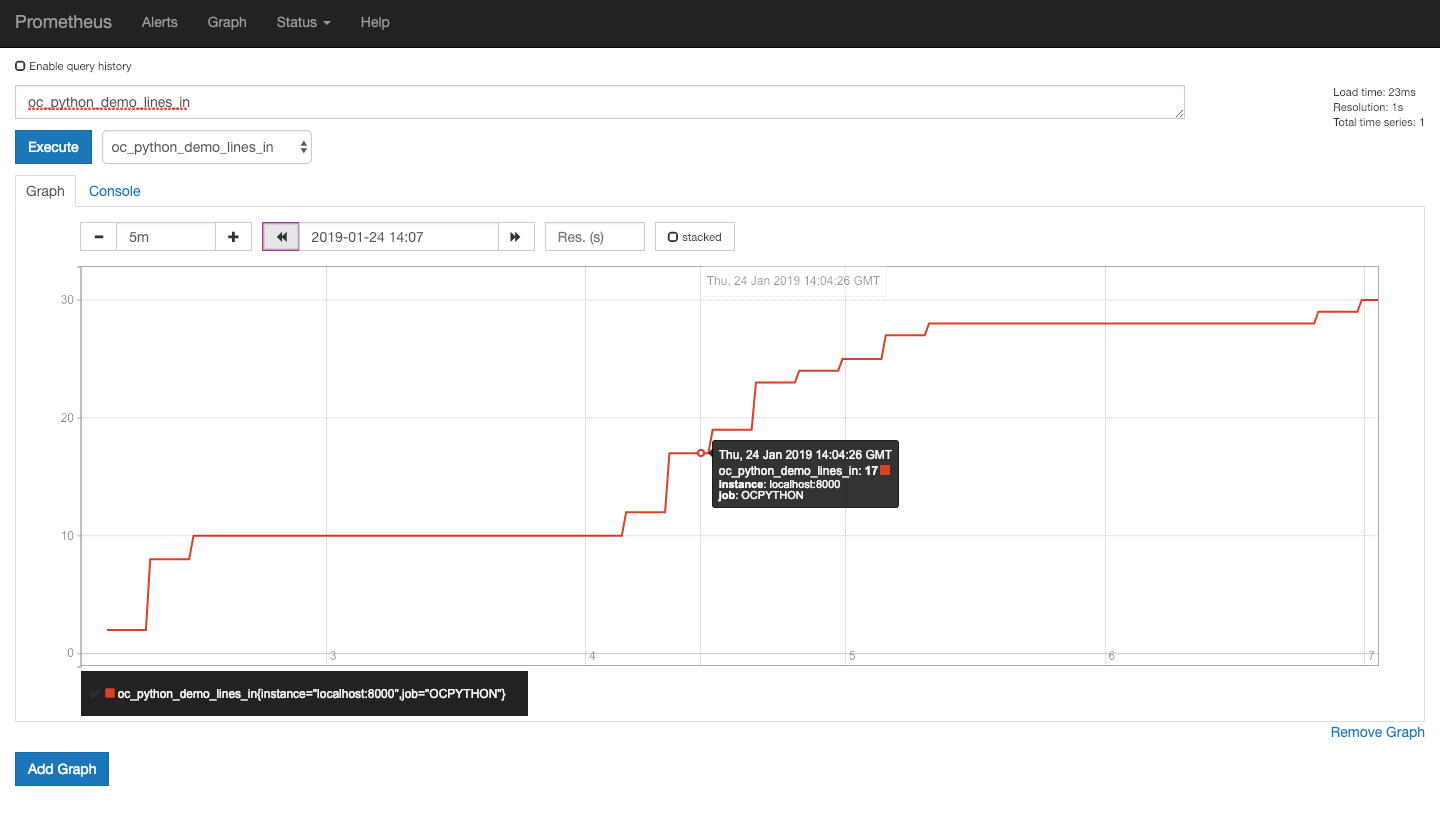
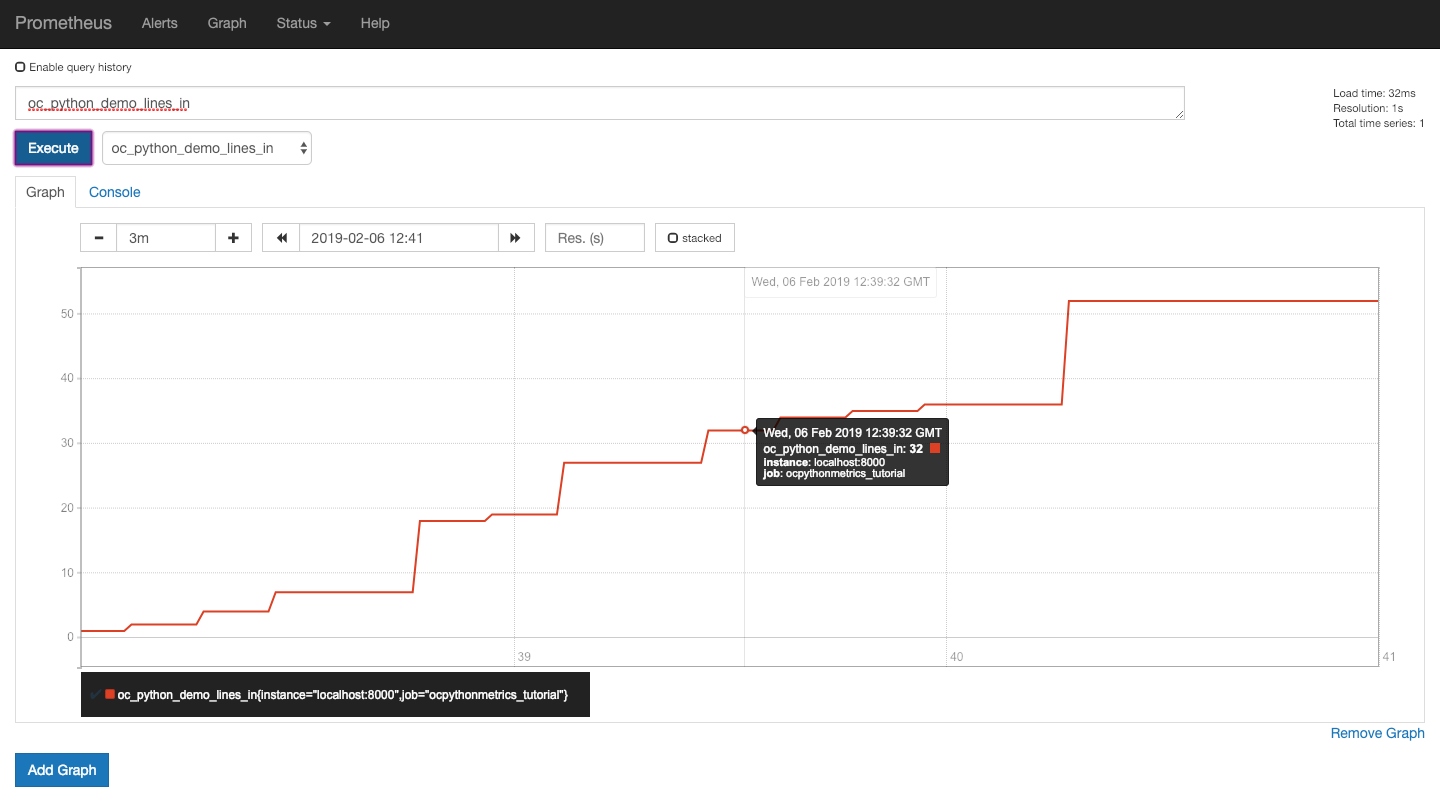
Update screenshots and replace "/" with "_"

diff --git a/content/quickstart/python/metrics.md b/content/quickstart/python/metrics.md
@@ -20,12 +20,12 @@ In this quickstart, we’ll glean insights from code segments and learn how to:
 
 ## Requirements
 - Python2 and above
-- Prometheus as our choice of metrics backend: we are picking it beause it is free, open source and easy to setup
+- Prometheus as our choice of metrics backend: we are picking it because it is free, open source and easy to setup
 
 {{% notice tip %}}
 For assistance setting up Prometheus, [Click here](/codelabs/prometheus) for a guided codelab.
 
-You can swap out any other exporter from the [list of Python exporters](/guides/exporters/supported-exporters/python)
+You can swap out any other exporter from the [list of Python exporters](/exporters/supported-exporters/python)
 {{% /notice %}}
 
 ## Installation
@@ -95,10 +95,10 @@ import opencensus.tags import tag_value as tag_value_module
 
 # Create the measures
 # The latency in milliseconds
-m_latency_ms = measure_module.MeasureFloat("repl/latency", "The latency in milliseconds per REPL loop", "ms")
+m_latency_ms = measure_module.MeasureFloat("repl_latency", "The latency in milliseconds per REPL loop", "ms")
 
 # Counts/groups the lengths of lines read in.
-m_line_lengths = measure_module.Int("repl/line_lengths", "The distribution of line lengths", "By")
+m_line_lengths = measure_module.Int("repl_line_lengths", "The distribution of line lengths", "By")
 {{</highlight>}}
 
 {{<highlight python>}}
@@ -116,10 +116,10 @@ from opencensus.tags import tag_value as tag_value_module
 
 # Create the measures
 # The latency in milliseconds
-m_latency_ms = measure_module.MeasureFloat("repl/latency", "The latency in milliseconds per REPL loop", "ms")
+m_latency_ms = measure_module.MeasureFloat("repl_latency", "The latency in milliseconds per REPL loop", "ms")
 
 # Counts/groups the lengths of lines read in.
-m_line_lengths = measure_module.MeasureInt("repl/line_lengths", "The distribution of line lengths", "By")
+m_line_lengths = measure_module.MeasureInt("repl_line_lengths", "The distribution of line lengths", "By")
 
 # The stats recorder
 stats_recorder = stats.Stats().stats_recorder
@@ -186,10 +186,10 @@ from opencensus.tags import tag_value as tag_value_module
 
 # Create the measures
 # The latency in milliseconds
-m_latency_ms = measure_module.MeasureFloat("repl/latency", "The latency in milliseconds per REPL loop", "ms")
+m_latency_ms = measure_module.MeasureFloat("repl_latency", "The latency in milliseconds per REPL loop", "ms")
 
 # Counts/groups the lengths of lines read in.
-m_line_lengths = measure_module.MeasureInt("repl/line_lengths", "The distribution of line lengths", "By")
+m_line_lengths = measure_module.MeasureInt("repl_line_lengths", "The distribution of line lengths", "By")
 
 # The stats recorder
 stats_recorder = stats.Stats().stats_recorder
@@ -201,19 +201,19 @@ key_status = tag_key_module.TagKey("status")
 # Create the error key
 key_error = tag_key_module.TagKey("error")
 
-latency_view = view_module.View("demo/latency", "The distribution of the latencies",
+latency_view = view_module.View("demo_latency", "The distribution of the latencies",
     [key_method, key_status, key_error],
     m_latency_ms,
     # Latency in buckets:
     # [>=0ms, >=25ms, >=50ms, >=75ms, >=100ms, >=200ms, >=400ms, >=600ms, >=800ms, >=1s, >=2s, >=4s, >=6s]
     aggregation_module.DistributionAggregation([0, 25, 50, 75, 100, 200, 400, 600, 800, 1000, 2000, 4000, 6000]))
 
-line_count_view = view_module.View("demo/lines_in", "The number of lines from standard input",
+line_count_view = view_module.View("demo_lines_in", "The number of lines from standard input",
     [],
     m_line_lengths,
     aggregation_module.CountAggregation())
 
-line_length_view = view_module.View("demo/line_lengths", "Groups the lengths of keys in buckets",
+line_length_view = view_module.View("demo_line_lengths", "Groups the lengths of keys in buckets",
     [],
     m_line_lengths,
     # Lengths: [>=0B, >=5B, >=10B, >=15B, >=20B, >=40B, >=60B, >=80, >=100B, >=200B, >=400, >=600, >=800, >=1000]
@@ -295,10 +295,10 @@ from opencensus.tags import tag_value as tag_value_module
 
 # Create the measures
 # The latency in milliseconds
-m_latency_ms = measure_module.MeasureFloat("repl/latency", "The latency in milliseconds per REPL loop", "ms")
+m_latency_ms = measure_module.MeasureFloat("repl_latency", "The latency in milliseconds per REPL loop", "ms")
 
 # Counts/groups the lengths of lines read in.
-m_line_lengths = measure_module.MeasureInt("repl/line_lengths", "The distribution of line lengths", "By")
+m_line_lengths = measure_module.MeasureInt("repl_line_lengths", "The distribution of line lengths", "By")
 
 # The stats recorder
 stats_recorder = stats.Stats().stats_recorder
@@ -310,19 +310,19 @@ key_status = tag_key_module.TagKey("status")
 # Create the error key
 key_error = tag_key_module.TagKey("error")
 
-latency_view = view_module.View("demo/latency", "The distribution of the latencies",
+latency_view = view_module.View("demo_latency", "The distribution of the latencies",
     [key_method, key_status, key_error],
     m_latency_ms,
     # Latency in buckets:
     # [>=0ms, >=25ms, >=50ms, >=75ms, >=100ms, >=200ms, >=400ms, >=600ms, >=800ms, >=1s, >=2s, >=4s, >=6s]
     aggregation_module.DistributionAggregation([0, 25, 50, 75, 100, 200, 400, 600, 800, 1000, 2000, 4000, 6000]))
 
-line_count_view = view_module.View("demo/lines_in", "The number of lines from standard input",
+line_count_view = view_module.View("demo_lines_in", "The number of lines from standard input",
     [],
     m_line_lengths,
     aggregation_module.CountAggregation())
 
-line_length_view = view_module.View("demo/line_lengths", "Groups the lengths of keys in buckets",
+line_length_view = view_module.View("demo_line_lengths", "Groups the lengths of keys in buckets",
     [],
     m_line_lengths,
     # Lengths: [>=0B, >=5B, >=10B, >=15B, >=20B, >=40B, >=60B, >=80, >=100B, >=200B, >=400, >=600, >=800, >=1000]
@@ -418,10 +418,10 @@ from opencensus.tags import tag_value as tag_value_module
 
 # Create the measures
 # The latency in milliseconds
-m_latency_ms = measure_module.MeasureFloat("repl/latency", "The latency in milliseconds per REPL loop", "ms")
+m_latency_ms = measure_module.MeasureFloat("repl_latency", "The latency in milliseconds per REPL loop", "ms")
 
 # Counts/groups the lengths of lines read in.
-m_line_lengths = measure_module.MeasureInt("repl/line_lengths", "The distribution of line lengths", "By")
+m_line_lengths = measure_module.MeasureInt("repl_line_lengths", "The distribution of line lengths", "By")
 
 # The stats recorder
 stats_recorder = stats.Stats().stats_recorder
@@ -433,19 +433,19 @@ key_status = tag_key_module.TagKey("status")
 # Create the error key
 key_error = tag_key_module.TagKey("error")
 
-latency_view = view_module.View("demo/latency", "The distribution of the latencies",
+latency_view = view_module.View("demo_latency", "The distribution of the latencies",
     [key_method, key_status, key_error],
     m_latency_ms,
     # Latency in buckets:
     # [>=0ms, >=25ms, >=50ms, >=75ms, >=100ms, >=200ms, >=400ms, >=600ms, >=800ms, >=1s, >=2s, >=4s, >=6s]
     aggregation_module.DistributionAggregation([0, 25, 50, 75, 100, 200, 400, 600, 800, 1000, 2000, 4000, 6000]))
 
-line_count_view = view_module.View("demo/lines_in", "The number of lines from standard input",
+line_count_view = view_module.View("demo_lines_in", "The number of lines from standard input",
     [],
     m_line_lengths,
     aggregation_module.CountAggregation())
 
-line_length_view = view_module.View("demo/line_lengths", "Groups the lengths of keys in buckets",
+line_length_view = view_module.View("demo_line_lengths", "Groups the lengths of keys in buckets",
     [],
     m_line_lengths,
     # Lengths: [>=0B, >=5B, >=10B, >=15B, >=20B, >=40B, >=60B, >=80, >=100B, >=200B, >=400, >=600, >=800, >=1000]
@@ -513,7 +513,7 @@ To do this, we firstly need to create a YAML file with the configuration e.g. `p
 whose contents are:
 ```yaml
 scrape_configs:
-- job_name: 'OCPYTHON'
+- job_name: 'ocpythonmetrics_tutorial'
 
 scrape_interval: 10s
 
